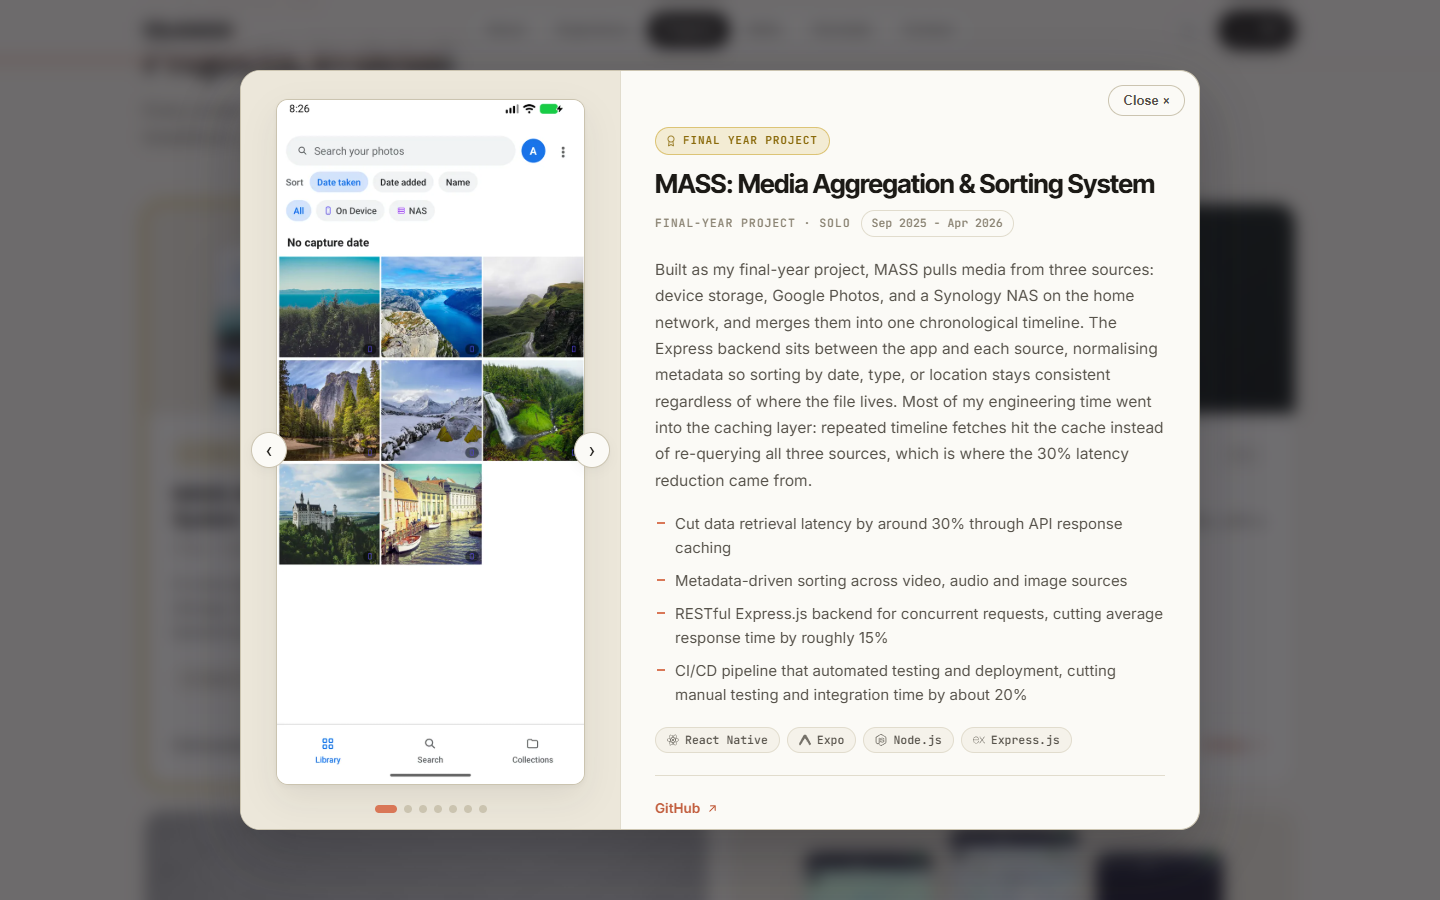
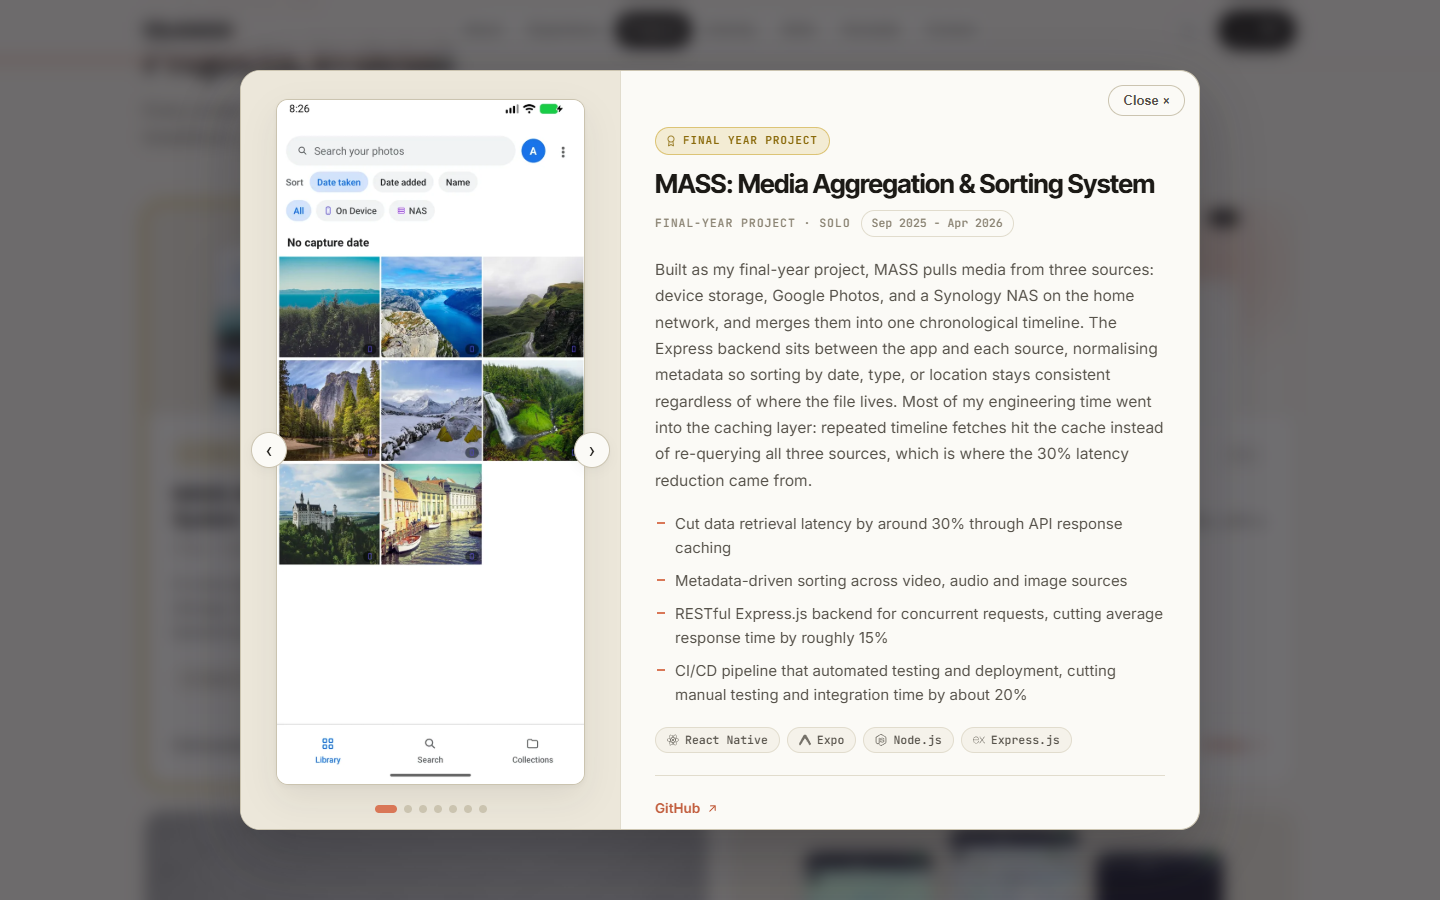
Simplify compose, update privacy notice and demo screenshots
- Compose publishes 3001:3001 only (Nginx Proxy Manager fronts it), defaults filled from the CV details, CV mounted, token read from the gitignored root .env
- Privacy notice now covers Cloudflare and its bot/AI/scraping protection
- Real bullet points in the experience section
- Recaptured the portfolio demo screenshots

Changed region(s): [[0.8125, 0.2178, 0.9062, 0.4667], [0.4062, 0.0, 0.5312, 0.0622]]

diff --git a/src/components/Contact.jsx b/src/components/Contact.jsx
@@ -49,11 +49,14 @@ function PrivacyNote() {
         <div id="privacy-panel" className="privacy-panel">
           <p>
             <strong>{profile.name}</strong>{profile.email && ` (${profile.email})`} is the data controller for this
-            site. No cookies, analytics, or third-party trackers are used, and nothing you do here
-            is logged or stored on a server. Your light/dark theme choice is saved in your
-            browser's local storage only and is never transmitted anywhere. The Contributions
-            graph above is fetched by this site's own server, not your browser, so GitHub never
-            sees you as a visitor. If you email me, I'll only use your details to reply.
+            site. It sits behind Cloudflare, which handles traffic to it and applies bot, AI-crawler
+            and scraping protection. In doing so Cloudflare may process your IP address and
+            set its own security cookies; I don't receive or manage any of that, only the
+            aggregate statistics Cloudflare provides. I run no analytics, advertising or
+            tracking of my own, and nothing you do here is stored by the site itself. Your light/dark
+            theme choice is saved in your browser's local storage only and is never transmitted.
+            The Contributions graph is fetched by this site's own server, not your browser, so GitHub
+            never sees you as a visitor. If you email me, I'll only use your details to reply.
             {profile.email && ` Under UK GDPR you can request access to or deletion of any data held about you by emailing ${profile.email}.`}
           </p>
         </div>

diff --git a/src/index.css b/src/index.css
@@ -928,7 +928,6 @@ main {
   color: var(--ink-soft);
 }
 
-.timeline-points li::before,
 .project-features li::before {
   content: "";
   position: absolute;
@@ -2280,4 +2279,16 @@ html.has-custom-cursor * {
   letter-spacing: 0.06em;
   text-transform: uppercase;
   vertical-align: 2px;
+}
+
+/* experience uses real bullets; project lists keep the short dash */
+.timeline-points li::before {
+  content: "";
+  position: absolute;
+  left: 4px;
+  top: 0.72em;
+  width: 5px;
+  height: 5px;
+  border-radius: 50%;
+  background: var(--accent);
 }

diff --git a/DEPLOY.md b/DEPLOY.md
@@ -17,12 +17,11 @@ Everything else (About text, experience, projects, skills...) is in `src/data/*.
 ```
 docker compose up -d --build     # or: npm run docker
 ```
-The container is non-root, read-only, capability-less and resource-capped, and bound
-to 127.0.0.1 (put a TLS proxy in front, or set `TLS_CERT`/`TLS_KEY` / `FORCE_HTTPS`).
-Values are passed at run time, so the same image works for any identity. Keep the
-committed compose file generic and put real values in a gitignored
-`docker-compose.override.yml`, or edit the environment block directly.
-To ship a CV, set `VITE_CV_URL` and uncomment the `volumes:` line (the CV is never baked in).
+The container is non-root, read-only, capability-less and resource-capped. It publishes
+port 3001 only; Nginx Proxy Manager sits in front for TLS and the public side.
+The compose defaults are the public details from the CV. Put the one secret, `GITHUB_TOKEN`,
+in a gitignored root `.env` file (compose reads it automatically), never in the compose file.
+The CV is mounted from `public/CV` at run time and is never baked into the image.
 
 ## Without Docker
 ```
